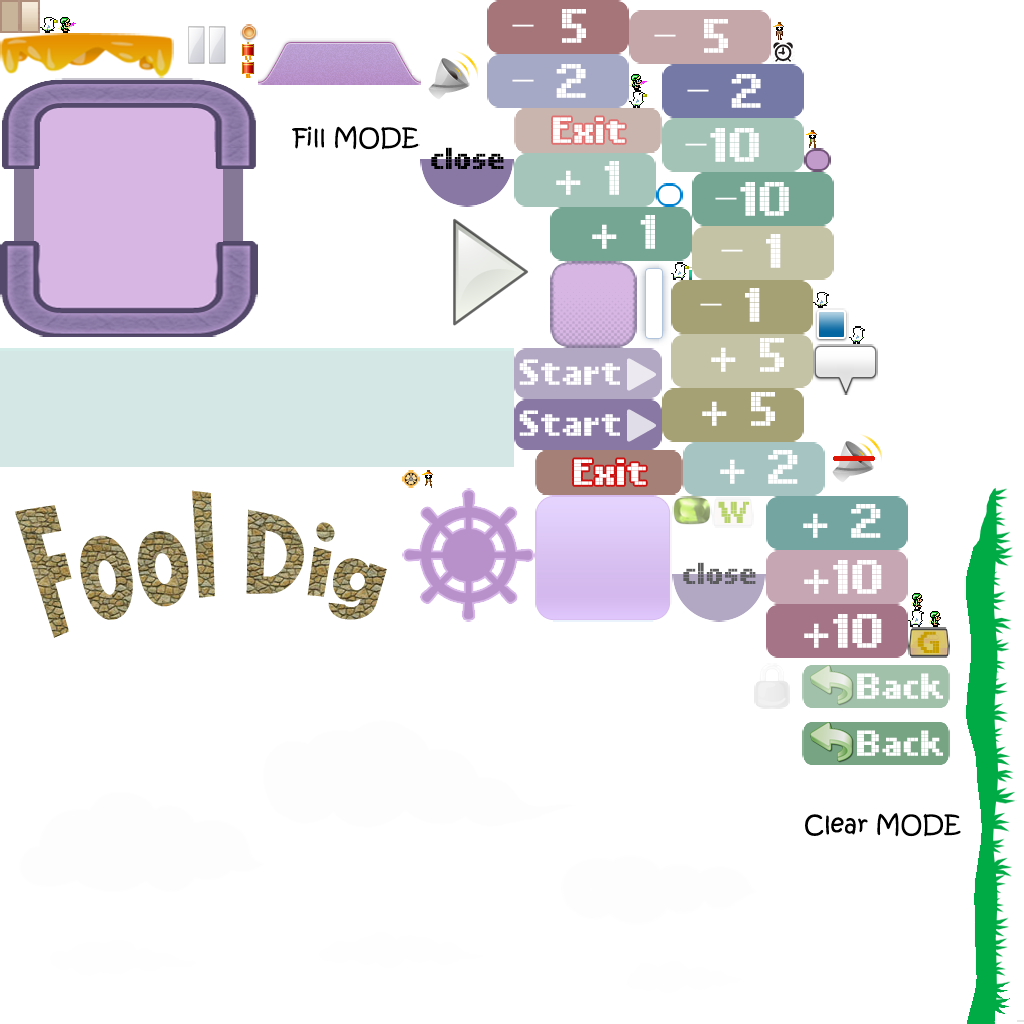
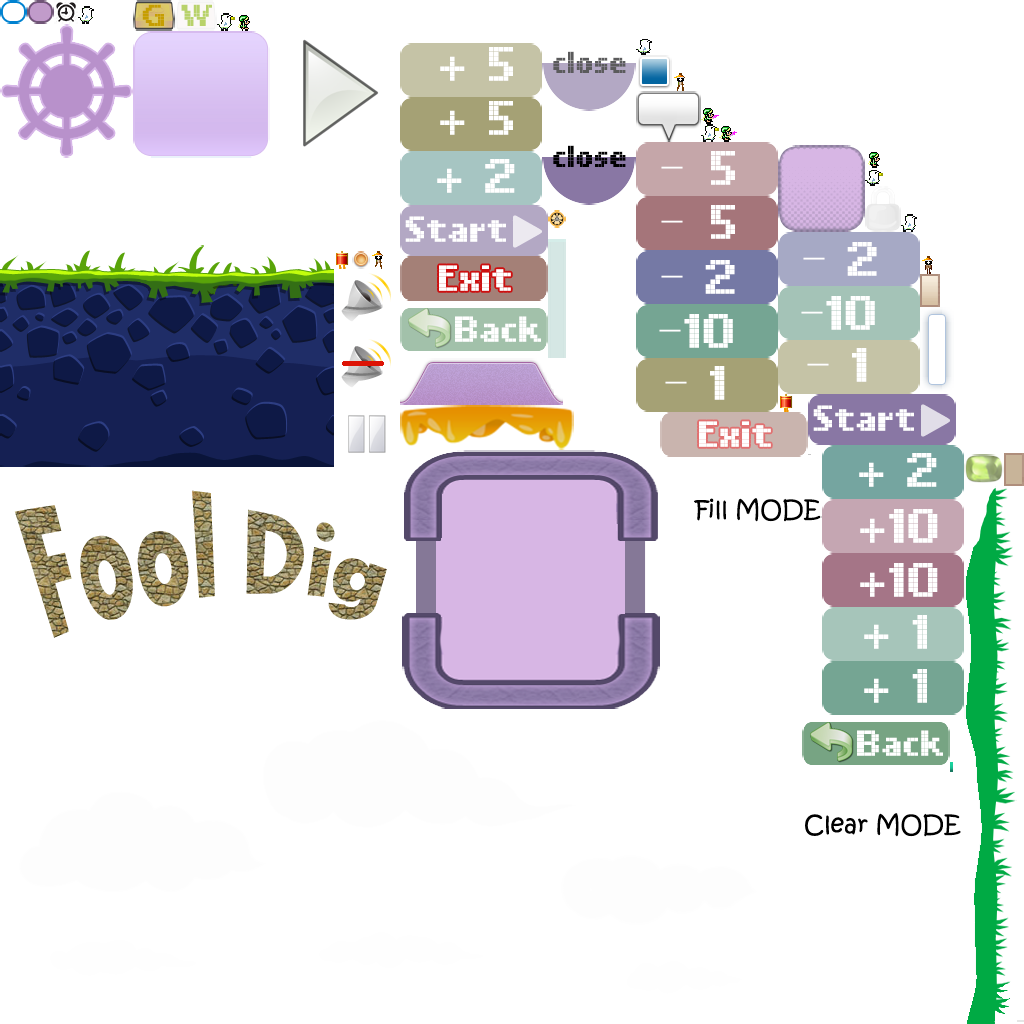
add the ground image

diff --git a/digs/src/info/u250/digs/scenes/StartUpScene.java b/digs/src/info/u250/digs/scenes/StartUpScene.java
@@ -32,10 +32,11 @@ public class StartUpScene extends SceneStage{
 		
 		atlas = Engine.resource("All");
 		
-		meshBackground = new SimpleMeshBackground(new Color(0, 0, 0, 1f),new Color(152f/255f, 181f/255f, 249f/255f, 1));
+		meshBackground = new SimpleMeshBackground(new Color(1, 1, 1, 1f),new Color(152f/255f, 181f/255f, 249f/255f, 1));
 
 		final ParallaxGroup pbg = new ParallaxGroup(Engine.getWidth(), Engine.getHeight(), new Vector2(50,0));
 		pbg.addActor(new ParallaxLayer(pbg, new Image(atlas.findRegion("cloud")), new Vector2(1,1), new Vector2(30,1000), new Vector2(0,350)));
+		pbg.addActor(new ParallaxLayer(pbg, new Image(atlas.findRegion("ground")), new Vector2(0.3f,1), new Vector2(0,1000), new Vector2(0,0)));
 		this.addActor(pbg);
 		
 		TerrainConfig config = new TerrainConfig();
